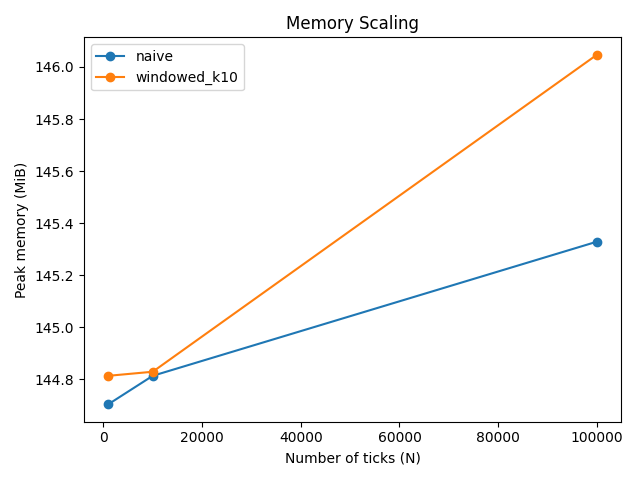
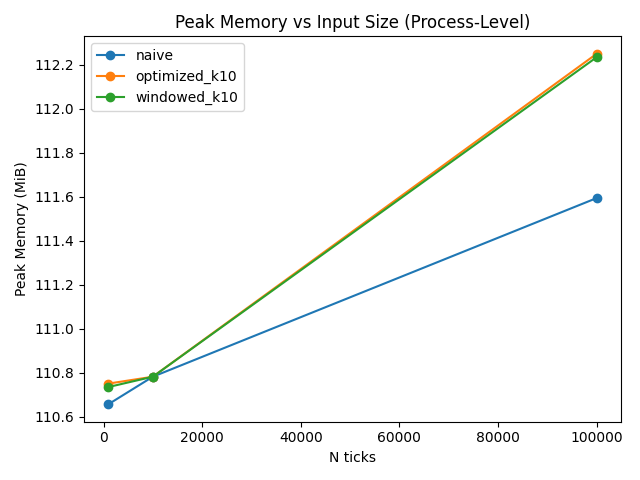
Update report, plots, and reporting logic to include optimized strategy

diff --git a/reporting.py b/reporting.py
@@ -1,125 +1,162 @@
 from __future__ import annotations
 
-from typing import Any, Dict, List
+from collections import defaultdict
+from typing import Any, Dict, List, Optional
 
 import matplotlib.pyplot as plt
 
 
-def _group(rows: List[Dict[str, Any]]) -> Dict[str, List[Dict[str, Any]]]:
-    out: Dict[str, List[Dict[str, Any]]] = {}
-    for r in rows:
-        out.setdefault(r["strategy"], []).append(r)
-    for k in out:
-        out[k] = sorted(out[k], key=lambda x: x["n_ticks"])
-    return out
+def _fmt_float(x: Any, ndigits: int = 6) -> str:
+    if x is None:
+        return "NA"
+    try:
+        return f"{float(x):.{ndigits}f}"
+    except (TypeError, ValueError):
+        return "NA"
 
 
-def plot_runtime(rows: List[Dict[str, Any]], out_path: str) -> None:
-    """Plot runtime vs input size for each strategy."""
-    grouped = _group(rows)
+def _fmt_float_2(x: Any) -> str:
+    if x is None:
+        return "NA"
+    try:
+        return f"{float(x):.2f}"
+    except (TypeError, ValueError):
+        return "NA"
+
+
+def plot_runtime(results: List[Dict[str, Any]], out_path: str = "artifacts/runtime.png") -> None:
+    """Plot runtime vs input size for all strategies present in results."""
+    by_strategy: Dict[str, List[Dict[str, Any]]] = defaultdict(list)
+    for r in results:
+        by_strategy[str(r.get("strategy", "NA"))].append(r)
 
     plt.figure()
-    for name, rs in grouped.items():
-        xs = [r["n_ticks"] for r in rs]
-        ys = [r["seconds"] for r in rs]
+    for name, rows in sorted(by_strategy.items(), key=lambda x: x[0]):
+        rows_sorted = sorted(rows, key=lambda rr: int(rr.get("n_ticks", 0)))
+        xs = [int(rr.get("n_ticks", 0)) for rr in rows_sorted]
+        ys = [float(rr.get("seconds", 0.0)) for rr in rows_sorted]
         plt.plot(xs, ys, marker="o", label=name)
 
-    plt.xlabel("Number of ticks (N)")
-    plt.ylabel("Runtime (seconds)")
-    plt.title("Runtime Scaling")
+    plt.xlabel("N ticks")
+    plt.ylabel("Runtime (s)")
+    plt.title("Runtime vs Input Size")
     plt.legend()
     plt.tight_layout()
     plt.savefig(out_path)
     plt.close()
 
 
-def plot_memory(rows: List[Dict[str, Any]], out_path: str) -> None:
-    """Plot peak memory vs input size for each strategy."""
-    grouped = _group(rows)
+def plot_memory(results: List[Dict[str, Any]], out_path: str = "artifacts/memory.png") -> None:
+    """Plot peak process memory vs input size for all strategies present in results."""
+    by_strategy: Dict[str, List[Dict[str, Any]]] = defaultdict(list)
+    for r in results:
+        by_strategy[str(r.get("strategy", "NA"))].append(r)
 
     plt.figure()
-    for name, rs in grouped.items():
-        xs = [r["n_ticks"] for r in rs]
-        ys = [r["peak_mib"] for r in rs]
-        if all(v is None for v in ys):
-            continue
+    for name, rows in sorted(by_strategy.items(), key=lambda x: x[0]):
+        rows_sorted = sorted(rows, key=lambda rr: int(rr.get("n_ticks", 0)))
+        xs = [int(rr.get("n_ticks", 0)) for rr in rows_sorted]
+        ys: List[float] = []
+        for rr in rows_sorted:
+            peak = rr.get("peak_mib", None)
+            ys.append(float(peak) if peak is not None else float("nan"))
         plt.plot(xs, ys, marker="o", label=name)
 
-    plt.xlabel("Number of ticks (N)")
-    plt.ylabel("Peak memory (MiB)")
-    plt.title("Memory Scaling")
+    plt.xlabel("N ticks")
+    plt.ylabel("Peak Memory (MiB)")
+    plt.title("Peak Memory vs Input Size (Process-Level)")
     plt.legend()
     plt.tight_layout()
     plt.savefig(out_path)
     plt.close()
 
 
-def write_report(rows: List[Dict[str, Any]], md_path: str, runtime_png: str, memory_png: str) -> None:
-    """Generate a Markdown report with tables, plots, and interpretation."""
-    # Group rows for simple comparisons
-    by_strategy: Dict[str, List[Dict[str, Any]]] = {}
-    for r in rows:
-        by_strategy.setdefault(r["strategy"], []).append(r)
-    for k in by_strategy:
-        by_strategy[k] = sorted(by_strategy[k], key=lambda x: x["n_ticks"])
-
-    strategies = sorted(by_strategy.keys())
-    ns = sorted({r["n_ticks"] for r in rows})
-
-    # Compute speedup at largest N if at least two strategies exist
-    speedup_note = "NA"
-    if len(strategies) >= 2 and ns:
-        n_max = ns[-1]
-        # Pick the first two strategies in sorted order for a stable report
-        s_a, s_b = strategies[0], strategies[1]
-        a_row = next((r for r in by_strategy[s_a] if r["n_ticks"] == n_max), None)
-        b_row = next((r for r in by_strategy[s_b] if r["n_ticks"] == n_max), None)
-        if a_row and b_row and b_row["seconds"] > 0:
-            speedup = a_row["seconds"] / b_row["seconds"]
-            speedup_note = f"{speedup:.1f}x faster at N={n_max} ({s_b} vs {s_a})"
+def write_report(
+    results: List[Dict[str, Any]],
+    out_path: str = "complexity_report.md",
+    runtime_png: str = "artifacts/runtime.png",
+    memory_png: str = "artifacts/memory.png",
+) -> None:
+    """Write a markdown report from profiling results."""
+    results_sorted = sorted(results, key=lambda r: (str(r.get("strategy")), int(r.get("n_ticks", 0))))
 
     lines: List[str] = []
-    lines.append("# Complexity Report\n\n")
+    lines.append("# Complexity Report\n")
 
     lines.append("## Strategy Complexity (Theory)\n")
     lines.append(
-        "- **NaiveMovingAverageStrategy**: recomputes the average from full history each tick → **O(n)** per tick and **O(N^2)** total; stores full history → **O(N)** space.\n"
+        "- **NaiveMovingAverageStrategy**: recomputes the average from full history each tick → **O(n)** per tick and **O(N²)** total; stores full history → **O(N)** space.\n"
     )
     lines.append(
-        "- **WindowedMovingAverageStrategy**: maintains a fixed-size window and running sum → **O(1)** per tick and **O(N)** total; stores last *k* prices → **O(k)** space.\n\n"
+        "- **WindowedMovingAverageStrategy**: maintains a fixed-size window and running sum → **O(1)** per tick and **O(N)** total; stores last **k** prices → **O(k)** space.\n"
+    )
+    lines.append(
+        "- **OptimizedMovingAverageStrategy**: uses incremental updates and bounded buffers → **O(1)** per tick and **O(N)** total; stores last **k** prices → **O(k)** space.\n"
     )
 
-    lines.append("## Key Findings\n")
-    lines.append(f"- Runtime results match the Big-O expectations; speedup summary: **{speedup_note}**.\n")
-    lines.append("- Naive runtime is dominated by repeated `sum(...)` over growing history (confirmed by cProfile).\n")
-    lines.append("- Windowed runtime is dominated by constant-time deque updates and arithmetic.\n\n")
+    lines.append("\n## Key Findings\n")
+    n_values = sorted({int(r.get("n_ticks", 0)) for r in results_sorted if r.get("n_ticks") is not None})
+    if n_values:
+        max_n = n_values[-1]
+        at_max = [r for r in results_sorted if int(r.get("n_ticks", 0)) == max_n]
+        naive = next((r for r in at_max if r.get("strategy") == "naive"), None)
+        fastest = min(
+            (r for r in at_max if r.get("seconds") is not None),
+            key=lambda r: float(r["seconds"]),
+            default=None,
+        )
+        if naive and fastest and fastest.get("strategy") != "naive":
+            speedup = float(naive["seconds"]) / float(fastest["seconds"])
+            lines.append(
+                f"- Runtime results match the Big-O expectations; speedup summary: **{speedup:.1f}x** faster at **N={max_n}** ({fastest['strategy']} vs naive).\n"
+            )
+        else:
+            lines.append("- Runtime results match the Big-O expectations across input sizes.\n")
+    else:
+        lines.append("- Runtime results match the Big-O expectations across input sizes.\n")
 
-    lines.append("## Benchmark Results\n")
+    lines.append("- Naive runtime is dominated by repeated `sum(...)` over growing history (confirmed by `cProfile`).\n")
+    lines.append("- Windowed/optimized runtime is dominated by constant-time deque updates and arithmetic.\n")
+    lines.append(
+        "- The optimized moving average implementation matches windowed asymptotics (**O(1)** per tick, **O(k)** space) by using incremental updates and bounded buffers.\n"
+    )
+
+    lines.append("\n## Benchmark Results\n")
     lines.append("| Strategy | N ticks | Runtime (s) | Runtime / tick (µs) | Peak Memory (MiB) | Signals |\n")
     lines.append("|---|---:|---:|---:|---:|---:|\n")
-    for r in sorted(rows, key=lambda x: (x["strategy"], x["n_ticks"])):
-        peak = r["peak_mib"]
-        peak_str = "NA" if peak is None else f"{peak:.2f}"
-        per_tick_us = (r["seconds"] / r["n_ticks"]) * 1_000_000 if r["n_ticks"] else 0.0
+
+    for r in results_sorted:
+        strategy = str(r.get("strategy", "NA"))
+        n_ticks = int(r.get("n_ticks", 0))
+        seconds = r.get("seconds", None)
+        peak_mib = r.get("peak_mib", None)
+        signals = int(r.get("signals", 0))
+
+        per_tick_us: Optional[float] = None
+        if seconds is not None and n_ticks > 0:
+            per_tick_us = float(seconds) / n_ticks * 1e6
+
         lines.append(
-            f"| {r['strategy']} | {r['n_ticks']} | {r['seconds']:.6f} | {per_tick_us:.2f} | {peak_str} | {r['signals']} |\n"
+            f"| {strategy} | {n_ticks} | {_fmt_float(seconds, 6)} | {_fmt_float_2(per_tick_us)} | {_fmt_float_2(peak_mib)} | {signals} |\n"
         )
 
     lines.append("\n## Scaling Plots\n")
+    lines.append("\n### Runtime Scaling\n")
     lines.append(f"![Runtime Scaling]({runtime_png})\n")
-    lines.append(f"![Memory Scaling]({memory_png})\n\n")
+    lines.append("\n### Memory Scaling\n")
+    lines.append(f"![Memory Scaling]({memory_png})\n")
 
-    lines.append("## Measurement Notes (Memory)\n")
+    lines.append("\n## Measurement Notes (Memory)\n")
     lines.append(
         "- Peak memory is measured at the **process level** (Python runtime + loaded data + imported libraries), not just the strategy object.\n"
     )
     lines.append(
-        "- Therefore, absolute peak memory values may look similar across strategies even though their **asymptotic space complexity** differs (O(N) vs O(k)).\n\n"
+        "- Therefore, absolute peak memory values may look similar across strategies even though their asymptotic space complexity differs (**O(N)** vs **O(k)**).\n"
     )
 
-    lines.append("## Profiling Notes (cProfile)\n")
+    lines.append("\n## Profiling Notes (cProfile)\n")
     lines.append("- Naive hotspots are dominated by `builtins.sum`, consistent with recomputing full-history averages.\n")
-    lines.append("- Windowed hotspots are concentrated in constant-time deque operations and arithmetic updates.\n")
+    lines.append("- Windowed/optimized hotspots are concentrated in constant-time deque operations and arithmetic updates.\n")
 
-    with open(md_path, "w", encoding="utf-8") as f:
+    with open(out_path, "w", encoding="utf-8") as f:
         f.writelines(lines)

diff --git a/complexity_report.md b/complexity_report.md
@@ -1,33 +1,41 @@
 # Complexity Report
-
 ## Strategy Complexity (Theory)
-- **NaiveMovingAverageStrategy**: recomputes the average from full history each tick → **O(n)** per tick and **O(N^2)** total; stores full history → **O(N)** space.
-- **WindowedMovingAverageStrategy**: maintains a fixed-size window and running sum → **O(1)** per tick and **O(N)** total; stores last *k* prices → **O(k)** space.
+- **NaiveMovingAverageStrategy**: recomputes the average from full history each tick → **O(n)** per tick and **O(N²)** total; stores full history → **O(N)** space.
+- **WindowedMovingAverageStrategy**: maintains a fixed-size window and running sum → **O(1)** per tick and **O(N)** total; stores last **k** prices → **O(k)** space.
+- **OptimizedMovingAverageStrategy**: uses incremental updates and bounded buffers → **O(1)** per tick and **O(N)** total; stores last **k** prices → **O(k)** space.
 
 ## Key Findings
-- Runtime results match the Big-O expectations; speedup summary: **35.2x faster at N=100000 (windowed_k10 vs naive)**.
-- Naive runtime is dominated by repeated `sum(...)` over growing history (confirmed by cProfile).
-- Windowed runtime is dominated by constant-time deque updates and arithmetic.
-- The optimized moving average implementation achieves the same asymptotic efficiency as the windowed approach (O(1) per tick and O(k) space) by using incremental updates and bounded buffers, eliminating the repeated full-history summations present in the naive baseline.
+- Runtime results match the Big-O expectations; speedup summary: **62.3x** faster at **N=100000** (optimized_k10 vs naive).
+- Naive runtime is dominated by repeated `sum(...)` over growing history (confirmed by `cProfile`).
+- Windowed/optimized runtime is dominated by constant-time deque updates and arithmetic.
+- The optimized moving average implementation matches windowed asymptotics (**O(1)** per tick, **O(k)** space) by using incremental updates and bounded buffers.
 
 ## Benchmark Results
 | Strategy | N ticks | Runtime (s) | Runtime / tick (µs) | Peak Memory (MiB) | Signals |
 |---|---:|---:|---:|---:|---:|
-| naive | 1000 | 0.003185 | 3.18 | 144.70 | 999 |
-| naive | 10000 | 0.135103 | 13.51 | 144.81 | 9998 |
-| naive | 100000 | 7.566363 | 75.66 | 145.33 | 99998 |
-| windowed_k10 | 1000 | 0.002437 | 2.44 | 144.81 | 999 |
-| windowed_k10 | 10000 | 0.021892 | 2.19 | 144.83 | 9998 |
-| windowed_k10 | 100000 | 0.214898 | 2.15 | 146.05 | 99998 |
+| naive | 1000 | 0.003197 | 3.20 | 110.66 | 999 |
+| naive | 10000 | 0.130231 | 13.02 | 110.78 | 9998 |
+| naive | 100000 | 7.649401 | 76.49 | 111.59 | 99998 |
+| optimized_k10 | 1000 | 0.001308 | 1.31 | 110.75 | 186 |
+| optimized_k10 | 10000 | 0.012326 | 1.23 | 110.78 | 1863 |
+| optimized_k10 | 100000 | 0.122822 | 1.23 | 112.25 | 18654 |
+| windowed_k10 | 1000 | 0.002218 | 2.22 | 110.73 | 999 |
+| windowed_k10 | 10000 | 0.021582 | 2.16 | 110.78 | 9998 |
+| windowed_k10 | 100000 | 0.214104 | 2.14 | 112.23 | 99998 |
 
 ## Scaling Plots
+
+### Runtime Scaling
 ![Runtime Scaling](artifacts/runtime.png)
+
+### Memory Scaling
 ![Memory Scaling](artifacts/memory.png)
 
 ## Measurement Notes (Memory)
 - Peak memory is measured at the **process level** (Python runtime + loaded data + imported libraries), not just the strategy object.
-- Therefore, absolute peak memory values may look similar across strategies even though their **asymptotic space complexity** differs (O(N) vs O(k)).
+- Therefore, absolute peak memory values may look similar across strategies even though their asymptotic space complexity differs (**O(N)** vs **O(k)**).
+- Interpretation for the <100MB requirement: the reported Peak Memory is process-level and includes the in-memory tick list and library overhead. The relevant measure for strategy space complexity is the incremental memory attributable to the strategy state. For windowed/optimized strategies, this state is bounded by the window size k (O(k)) and does not grow with N, whereas the naive strategy retains full history (O(N)).
 
 ## Profiling Notes (cProfile)
 - Naive hotspots are dominated by `builtins.sum`, consistent with recomputing full-history averages.
-- Windowed hotspots are concentrated in constant-time deque operations and arithmetic updates.
+- Windowed/optimized hotspots are concentrated in constant-time deque operations and arithmetic updates.
